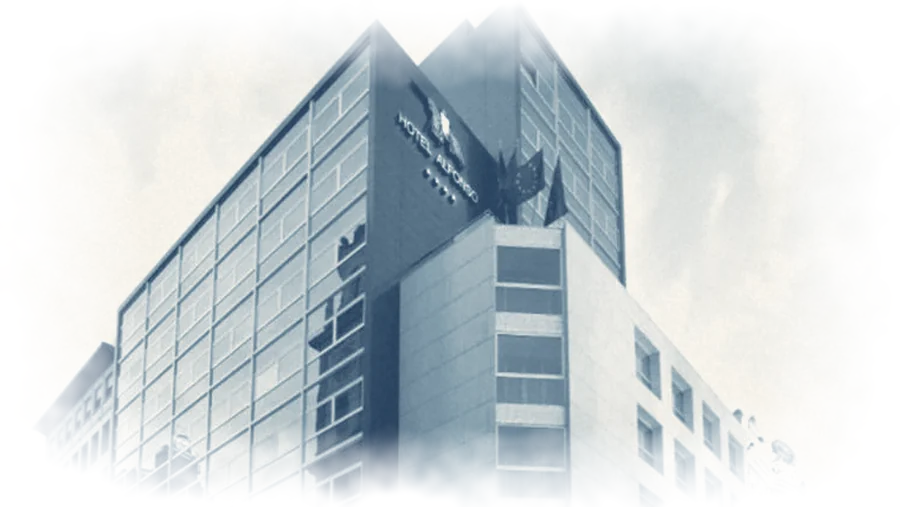
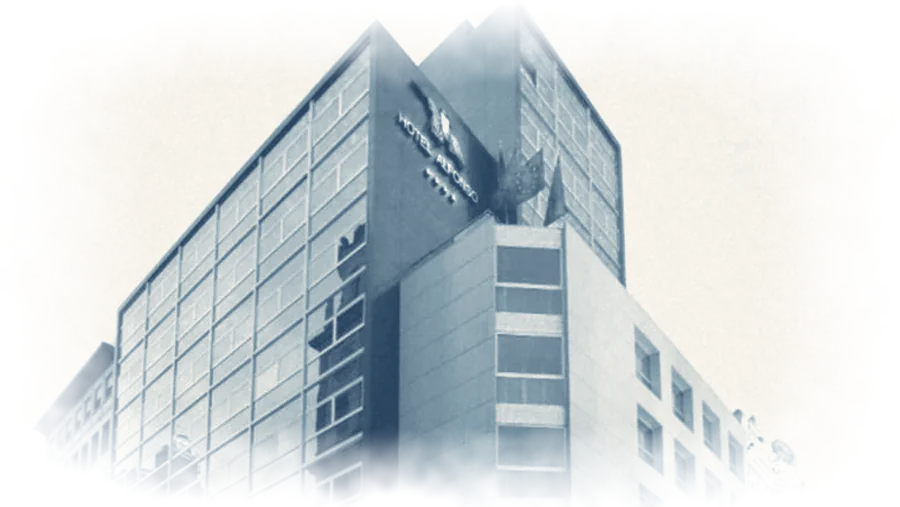
Fotos en duotono de todos los hoteles
Claude-Session: https://claude.ai/code/session_01C5ZeNek14SHPGvVaR3bgfn

diff --git a/js/datos.js b/js/datos.js
@@ -15,27 +15,27 @@ window.BODA_DATOS = {
     { nombre: "Hotel Goya", mapa: 7, min: 11, estrellas: 4, descuento: "10%", especial: true,
       codigo: "WEDD2027", url: "https://www.palafoxhoteles.com/es", imagen: "hotel-goya.webp" },
     { nombre: "Hotel Palafox", mapa: null, min: 14, estrellas: 5, descuento: "10%", especial: true,
-      codigo: "WEDD2027", url: "https://www.palafoxhoteles.com/es", imagen: "hotel-palafox.png" },
+      codigo: "WEDD2027", url: "https://www.palafoxhoteles.com/es", imagen: "hotel-palafox.webp" },
     { nombre: "Hotel Reina Petronila", enTabla: false, mapa: null, min: 51, estrellas: 5, descuento: "Tarifa especial", especial: true,
-      codigo: "WEDD2027", url: "https://www.palafoxhoteles.com/es", imagen: "hotel-reina-petronila.png" },
+      codigo: "WEDD2027", url: "https://www.palafoxhoteles.com/es", imagen: "hotel-reina-petronila.webp" },
     { nombre: "Hotel Hiberus", enTabla: false, mapa: null, min: 46, estrellas: 4, descuento: "Tarifa especial", especial: true,
-      codigo: "WEDD2027", url: "https://www.palafoxhoteles.com/es", imagen: "hotel-hiberus.png" },
+      codigo: "WEDD2027", url: "https://www.palafoxhoteles.com/es", imagen: "hotel-hiberus.webp" },
     { nombre: "Hotel Catalonia El Pilar", mapa: 2, min: 4, estrellas: 4, descuento: "Tarifas fijas", especial: true,
-      codigo: "BODA JAVIER Y PILAR", url: "https://www.cataloniahotels.com/es/hotel/catalonia-el-pilar", imagen: "hotel-catalonia.png" },
+      codigo: "BODA JAVIER Y PILAR", url: "https://www.cataloniahotels.com/es/hotel/catalonia-el-pilar", imagen: "hotel-catalonia.webp" },
     { nombre: "B&B Hotel Zaragoza Centro", mapa: 10, min: 8, estrellas: 2, descuento: "10%", especial: true,
-      codigo: "BODA JAVIER 27 JULIO", url: "https://www.hotel-bb.com/es/hotel/zaragoza-centro", imagen: "hotel-bb.png" },
+      codigo: "BODA JAVIER 27 JULIO", url: "https://www.hotel-bb.com/es/hotel/zaragoza-centro", imagen: "hotel-bb.webp" },
 
     // ---- Otras recomendaciones ----
     { nombre: "Hotel NH Ciudad de Zaragoza", mapa: 1, min: 5, estrellas: 4, descuento: null, especial: false,
-      url: "https://www.nh-hotels.com/es/hotel/nh-ciudad-de-zaragoza", imagen: "hotel-nh-ciudad.png" },
+      url: "https://www.nh-hotels.com/es/hotel/nh-ciudad-de-zaragoza", imagen: "hotel-nh-ciudad.webp" },
     { nombre: "NH Collection Gran Hotel de Zaragoza", mapa: 9, min: 15, estrellas: 4, descuento: null, especial: false,
-      url: "https://www.nh-hotels.com/es/hotel/nh-collection-gran-hotel-de-zaragoza", imagen: "hotel-nh-gran-hotel.png" },
+      url: "https://www.nh-hotels.com/es/hotel/nh-collection-gran-hotel-de-zaragoza", imagen: "hotel-nh-gran-hotel.webp" },
     { nombre: "Hotel Avenida", mapa: 3, min: 9, estrellas: 3, descuento: null, especial: false,
-      url: "https://www.hotelavenida-zaragoza.com/", imagen: "hotel-avenida.png" },
+      url: "https://www.hotelavenida-zaragoza.com/", imagen: "hotel-avenida.webp" },
     { nombre: "Hotel Ibis Styles Zaragoza Centro", mapa: 8, min: 12, estrellas: 3, descuento: null, especial: false,
-      url: "https://all.accor.com/hotel/8521/index.es.shtml", imagen: "hotel-ibis.png" },
+      url: "https://all.accor.com/hotel/8521/index.es.shtml", imagen: "hotel-ibis.webp" },
     { nombre: "Hotel Hesperia Zaragoza Centro", mapa: null, min: 15, estrellas: 3, descuento: null, especial: false,
-      url: "https://www.hesperia.com/hotel-hesperia-zaragoza-centro/", imagen: "hotel-hesperia.png" }
+      url: "https://www.hesperia.com/hotel-hesperia-zaragoza-centro/", imagen: "hotel-hesperia.webp" }
   ],
 
   parkings: [
